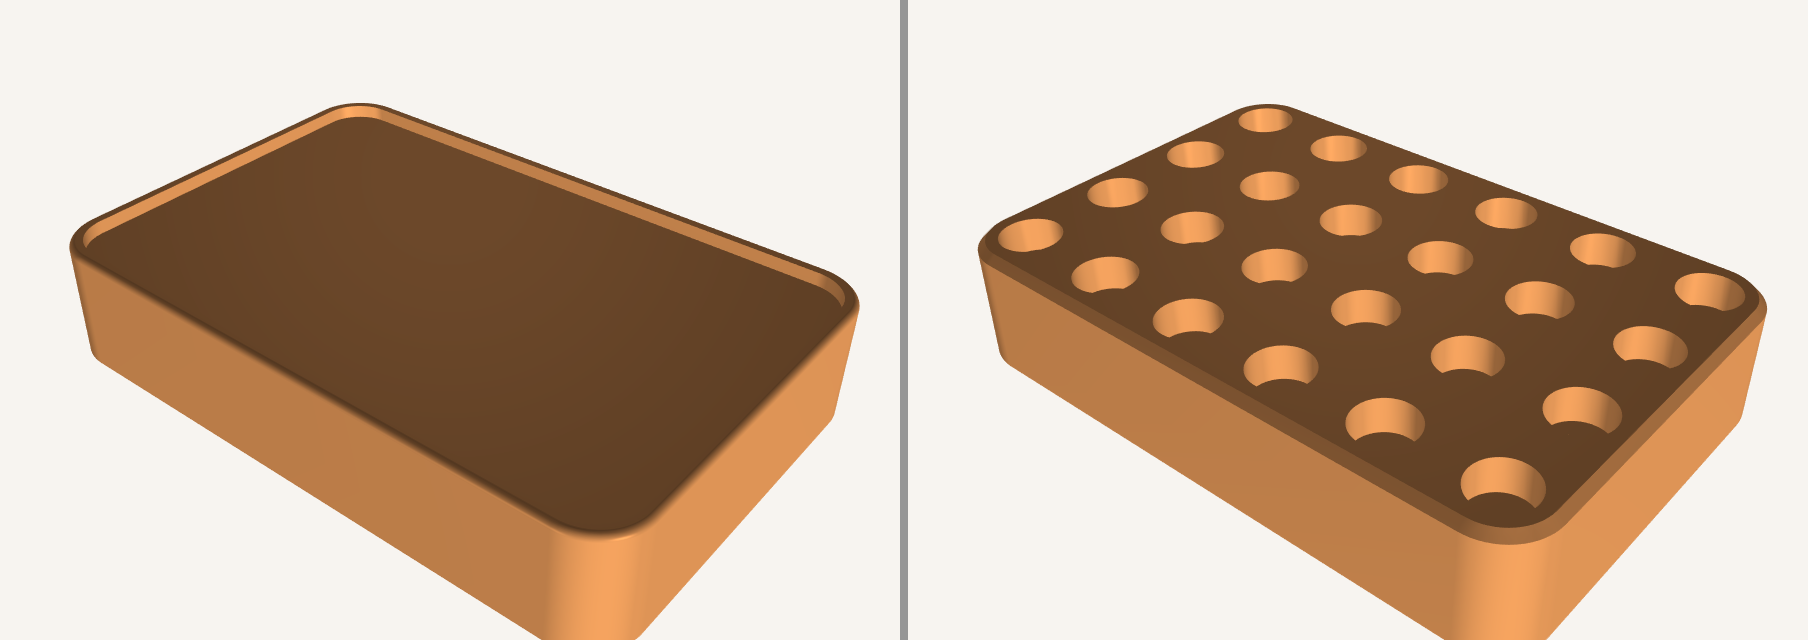
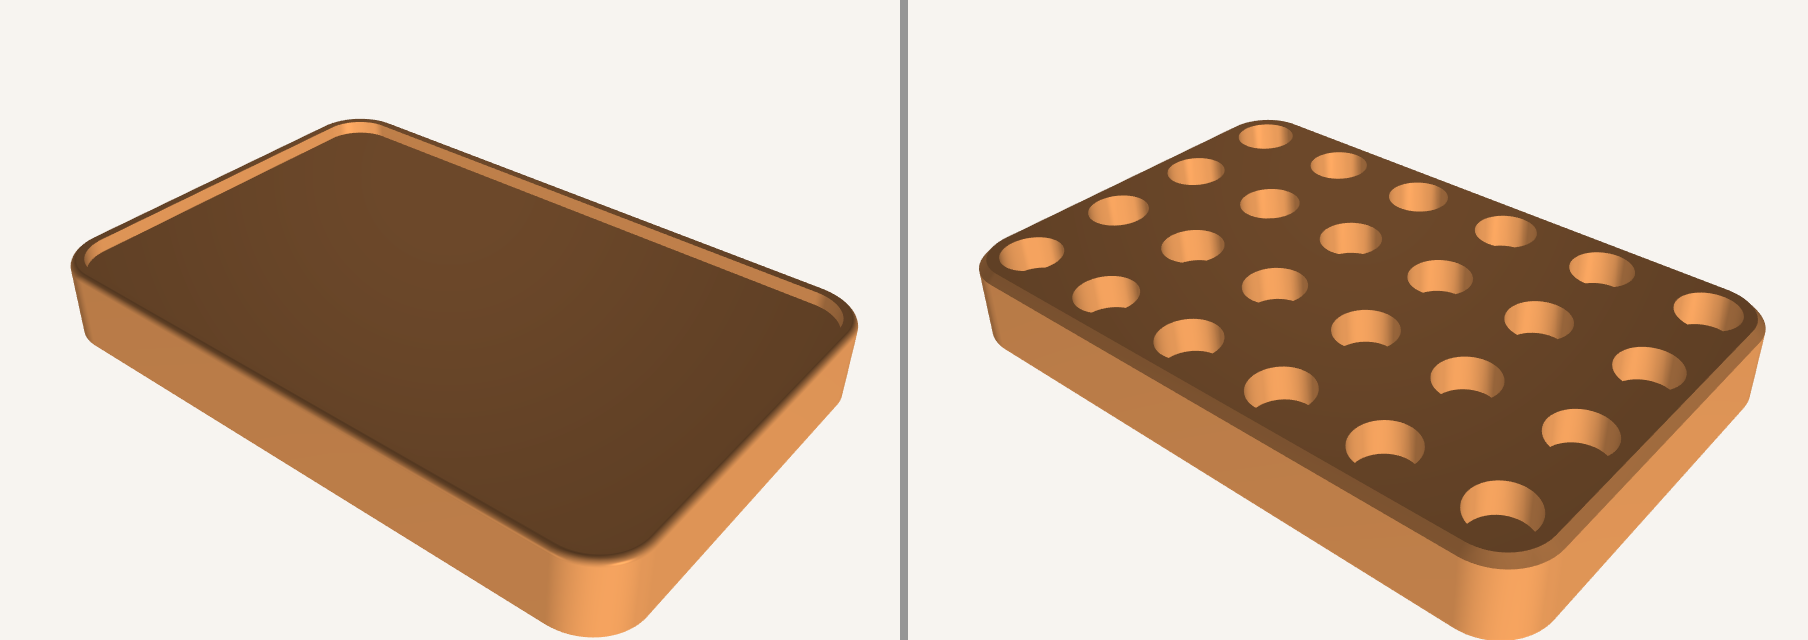
feat(hardware): lower the 4x6 sticker block from 9.6 to 6.4mm
Two Lego plates tall; top skin over the sockets is still 2.8mm (floor 1.2).

diff --git a/hardware/lrrh/sticker_block.py b/hardware/lrrh/sticker_block.py
@@ -15,7 +15,7 @@ import cadquery as cq
 import blocks as B
 
 NX, NY      = 6, 4          # 돌기 수 (X 6 · Y 4) — 발자국 47.6 × 31.6mm
-H           = 9.6           # 블록 높이 (레고 브릭 한 단)
+H           = 6.4           # 블록 높이 (레고 플레이트 두 장). 9.6 → 6.4 (2026-09-14 「높이를 좀 낮춰줘」). 하한 = 소켓 2.6 + 윗살 1.2 + 턱 1.0 = 4.8
 CORNER_R    = 4.0           # 세로 모서리 반경
 TOP_EDGE_R  = 0.5           # 윗면 바깥 모서리 둥글림 (턱 폭 1mm 보다 작아야 턱 윗면이 남는다)
 RIM_W       = 1.0           # 스티커 턱 폭
